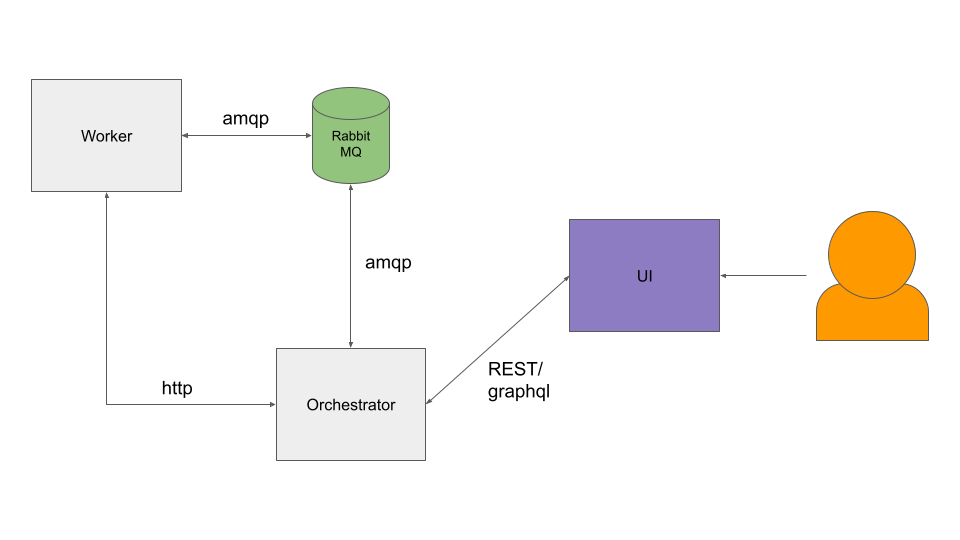
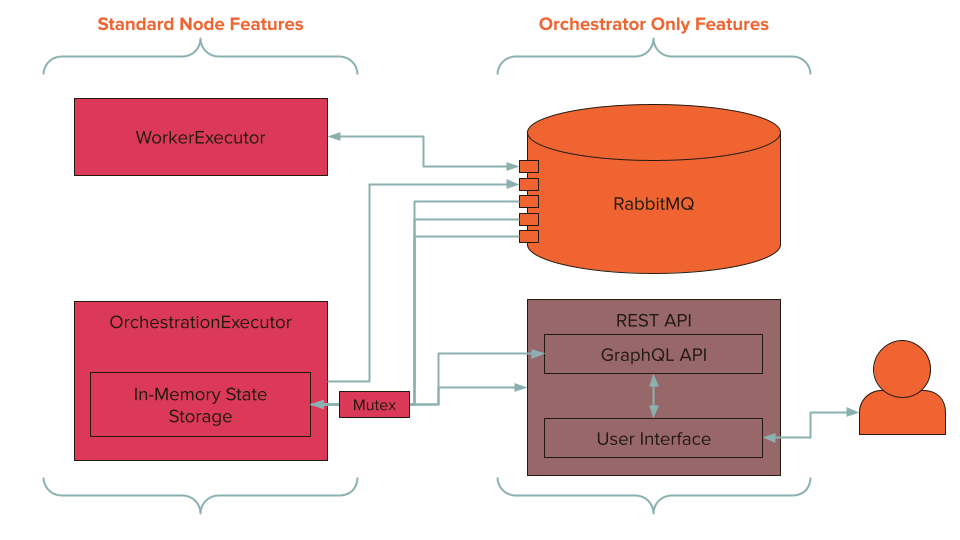
Report rev 3

diff --git a/src/platform_executor/orchestration_executor/db.rs b/src/platform_executor/orchestration_executor/db.rs
@@ -86,22 +86,28 @@ impl Database {
     pub fn get_orchestrator_rank(&mut self, node_id: &str) -> u8 {
         if let Some(n) = self.nodes.get(node_id) {
             let mut n = n.clone();
-            if let Some(p) = n.orchestration_priority {
-                return p;
-            }
             // node does not have an assigned priority, so figure one out
             let nodes: Vec<_> = self.nodes.iter().collect();
-            let mut max_priority = 0;
+            let mut priorities: [bool; 255] = [false; 255];
             for (_, n) in nodes {
                 if let Some(p) = n.orchestration_priority {
-                    if p != 255 && p > max_priority {
-                        max_priority = p;
-                    }
+                    priorities[p as usize] = true;
                 }
             }
-            n.orchestration_priority = Some(max_priority + 1);
-            self.nodes.insert(node_id.to_string(), n);
-            return max_priority + 1;
+            for (i, v) in priorities.iter().enumerate() {
+                if *v == false {
+                    if let Some(p) = n.orchestration_priority {
+                        if p < (i as u8) {
+                            return p;
+                        }
+                    }
+                    n.orchestration_priority = Some(i as u8);
+                    self.nodes.insert(node_id.to_string(), n);
+                    return i as u8;
+                }
+            }
+            // No priority is available
+            return 255;
         } else {
             // node is not in DB, so give no priority
             return 255;

diff --git a/documentation/Report.md b/documentation/Report.md
@@ -115,15 +115,15 @@ Running an installer performs the following sequence of tasks:
 - setup of kraken directory, and either compilation of the platform or downloading a compiled executable
 - establishment of the kraken.service, which will run a script to auto-update and auto-run the platform on boot
 
-There are two different installation options (the `installer-compile` and `installer-pi`) since compiling a rust project (or this project in particular) requires significant computing resources, as well as openssl, which does not come built in with Raspbian. As a result, prior to distributing a pre-compiled binary with openssl built in, compiling on a Raspberry Pi 3 B+ took upwards of an hour with active cooling, as well as additional configuration to get openssl installed. Now, Raspberry Pis simply need to download a ~20MB binary (this is unoptimized for size, Rust is notorious for having large binary sizes prior to optimization). See [Compilation](###Compilation) for more information about how Kraken achieves low-effort cross compilation.
+There are two different installation options (the `installer-compile` and `installer-pi`) since compiling a rust project (or this project in particular) requires significant computing resources, as well as openssl, which does not come built in with Raspbian. As a result, prior to distributing a pre-compiled binary with openssl built in, compiling on a Raspberry Pi 3 B+ took upwards of an hour with active cooling, as well as additional configuration to get openssl installed. Now, Raspberry Pis simply need to download a ~20MB binary (this has not been optimized for size, Rust is notorious for having large binary sizes prior to optimization due to static linking of all dependencies and static dispatch for generics). See [Compilation](###Compilation) for more information about how Kraken achieves low-effort cross compilation.
 
 The most detailed and up to date information about installation is available [here](./Installation.md).
 
-### Compilation
+### Binary Compilation
 
-Due to the low resources of a raspberry pi, compiling this project natively can take hours. For this reason, I have configured this project to support cross-compilation for Raspberry Pi. By making use of Rust's tooling, this process is actually fairly straightforward.
+Due to the low resources of a Raspberry Pi, compiling this project natively can take hours. For this reason, the project is configured to support cross-compilation for Raspberry Pi. By making use of Rust's tooling, this process is actually fairly straightforward.
 
-First, you must define the relevant target in your `.cargo/config.toml` file:
+First, you must define the target in your rust build tools (cargo) configuration file:
 
 ```toml
 [build]
@@ -139,34 +139,78 @@ Then you install the relevant linker to your system you are compiling from:
 sudo apt install arm-linux-gnueabihf-gcc
 ```
 
-To compile for RPi, we must also bundle in openssl. Luckily with Cargo's `features` feature, this becomes trivial. We first add `openssl` as an optional dependency to our `Config.toml`:
+To compile for RPi, you must also bundle in openssl. Luckily with Cargo's `features` feature, this becomes trivial. We first add `openssl` as an optional dependency to our `Config.toml` (which is the Rust `package.json` or `requirements.txt` equivalent):
 
 ```toml
 openssl = { version = '0.10', optional = true }
 ```
 
-and then we add the openssl feature to our `Config.toml`
+and then add the openssl feature to our `Config.toml`
 
 ```toml
 [features]
 vendored-openssl = ["openssl/vendored"]
 ```
 
-Then, we can simply compile our project as follows:
+Then simply compile the project as follows:
 
 ```bash
 cargo build --release --target armv7-unknown-linux-gnueabihf --features vendored-openssl
-# or for this project, just use the shortcut
+# or for this project, just use the shortcut defined in the Makefile
 make build-pi
 ```
 
-This will generate an executable, which can simply be uploaded to Github as a new release. The most recent release will be downloaded by `installer-pi.sh` as part of the installation process, or on each boot if a newer binary is available.
+This will generate an executable, which can be uploaded to Github as a new release. The most recent release will be downloaded by `installer-pi.sh` as part of the installation process, or on each boot if a newer binary is available.
 
 ### Application Onboarding
 
-Onboarding an application to the platform requires only a few simple steps. First, you must have a running version of the platform on your LAN. You can either follow the [installation steps above](###Installation), or simply clone the project and run the platform temporarily.
+The application onboarding process is as follows:
 
-Then you must configure your application to be run on the platform. To do this, you must create a `shipwreck.toml` file in the root directory of your repository, in the branch you want to be deployed to the platform. An example might look like the following:
+- Install/Run the platform
+- Create a `shipwreck.toml` file in your project's root specifying configuration information
+-
+
+Onboarding an application to the platform requires only a few simple steps. First, you must have a running version of the platform on your LAN. You can either follow the [installation steps above](###Installation) to install the platform as a service, or simply clone the project and run the dev installation script, and compile and build locally.
+
+Suppose we have a basic NodeJS express server, with a file structure and file contents:
+
+```bash
+# Directory Structure
+.
+├── package.json
+└── src
+    └── index.js
+```
+
+```js
+// index.js
+const express = require("express");
+let app = express();
+
+app.get("/", (req, res) => {
+  res.send("hello from nodeJS!");
+});
+
+app.listen(7211, () => {
+  console.log("listening on 7211");
+});
+```
+
+```json
+// package.json
+{
+  "name": "scapenode",
+  "main": "index.js",
+  "scripts": {
+    "start": "node ./src/index.js"
+  },
+  "dependencies": {
+    "express": "^4.17.1"
+  }
+}
+```
+
+To onboard this application to the platform, you must create a `shipwreck.toml` file in the root directory of your repository, in the branch you want to be deployed to the platform. An example might look like the following:
 
 ```toml
 [app]
@@ -176,14 +220,26 @@ author="Ethan Shry"
 endpoint="https://github.com/ethanshry/scapenode"
 
 [config]
-port=7211
-lang="node"
-run="npm start"
+port=7211 # the port specified in the express server
+lang="node" # node specified that this is a nodejs application
+run="npm start" # the command to be run - we could replace this with `node ./src/index.js`
+```
+
+Which will yield the following directory structure:
+
+```bash
+.
+├── package.json
+├── shipwreck.toml
+└── src
+    └── index.js
 ```
 
 Components of the `app` section describe metadata about the application, while fields of the `config` section describe important configuration aspects of your deployment. More details about these fields are available on the `info` screen in the platform interface, and the config field format is implemented in the `crate::deployment::shipwreck` module.
 
-From there, you simply need to access the `deployments` tab of the interface, and select the appropriate URL and branch for your deployment. This should enable the `Create Deployment` button, which will delegate the deployment to a worker on the platform.
+You will then need to access the platform interface to deploy the application, which means you need the IP address of the machine which is running the platform. If do not know the IP address, the [Kraken-Orchestrator-Discovery](https://github.com/ethanshry/Kraken-Orchestrator-Discovery) tool will scan your LAN for an IP address with an exposed port `8000`, which is the port that the platform API runs on. While a DNS server for the platform was something which was explored for ease-of-use, traditional DNS implementations require a consistent IP address and configuring either all devices on your LAN or your Router to point to that IP address, and mDNS libraries for Rust were incompatible, incomplete, or generally not sufficiently mature to be implemented in a reasonable amount of time. In any case, navigate to the platform interface at `PLATFORM_IP:8000`.
+
+From there, you simply need to access the `deployments` tab of the interface, and select the appropriate URL (NOT the git clone URL) and branch for your deployment. This should enable the `Create Deployment` button, which will delegate the deployment to a worker on the platform.
 
 ![Deployment UI Example](./images/deployment_url_and_branch_ok.png)
 
@@ -193,7 +249,7 @@ This section will cover the main systems involved in the platform. The figure be
 
 ![Node Components](./images/node_components_diagram.png)
 
-As you can see, each node has two different `Executors` running at any given time. These are outlined more in the [Executors](###Executors) section, however an executor is a way to differentiate groups of functionality. There are effectively two types of nodes on the platform- a single orchestrator, and many workers. Their responsibilities are covered in the [Workers](###Workers), [Orchestrators](###Orchestrators), and [Orchestration Rollover Candidates](###Orchestration-Rollover-Candidates) sections below.
+As you can see, each node has two different `Executors` running at any given time- a `WorkerExecutor` and an `OrchestrationExecutor`. These are outlined more in the [Executors](###Executors) section, however an executor is a way to differentiate groups of functionality. There are effectively two types of nodes on the platform- orchestrators and workers. Orchestrators are either active (the primary orchestrator) or inactive (rollover candidates). Their responsibilities are covered in the [Workers](###Workers), [Orchestrators](###Orchestrators), and [Orchestration Rollover Candidates](###Orchestration-Rollover-Candidates) sections below.
 
 The way the various pieces of the platform communicate with each other is outlined in [Communication](###Communication).
 
@@ -444,7 +500,7 @@ impl Executor for OrchestrationExecutor {
 
 ### Orchestration Rollover Candidates
 
-Though technically this role falls under the `OrchestrationExecutor` umbrella, an Orchestration Rollover Candidate is worth talking about separately. These are `OrchestrationExecutors` which have a `rollover_priority != Some(0)`. In these cases, the `setup` for the executor will do nothing. In `execute`, the orchestrator is only responsible for checking to see that it can communicate with the primary orchestrator. If the candidate is the primary candidate (i.e. the first rollover node), then it will also backup the database and log data from the primary orchestrator.
+Though technically this role falls under the `OrchestrationExecutor` umbrella, an Orchestration Rollover Candidate is worth talking about separately. These are `OrchestrationExecutors` which have a `rollover_priority != Some(0)`. In these cases, the `setup` for the executor will do nothing. In `execute`, the orchestrator is only responsible for checking to see that it can communicate with the primary orchestrator. If the candidate is the primary candidate (i.e. the first rollover node), then it will also backup the database and log data from the primary orchestrator. For more information on the rollover process itself, see [Rollover](##Rollover)
 
 ```rust
 
@@ -484,11 +540,11 @@ impl Executor for OrchestrationExecutor {
 
 ### Communication
 
-The most complicated portion of this project is figuring out how all the different pieces of the platform communicate with each other. The below diagram covers the different pieces of the platform, and where they are communicating.
+The communication between different platform systems is designed to maximize simplicity within each system. The below diagram covers the different pieces of the platform, and how they are communicating.
 
 ![Platform Communication](./images/platform_communication_diagram.png)
 
-The first thing to note is the way external users interface with the platform. The User Interface only communicates with the platform via the GraphQL API. This communication method was chosen so as to maximize flexibility in development- by using GraphQL, it is very easy to modify the schema of the requests on-the-fly, which sped up development significantly, and allows for future expansibility. The GraphQL API (which really rests on top of a standard REST API) has a thread-safe reference to the In-Memory State Storage (or the `Database`) that is owned by the `OrchestrationExecutor`. All the data to power the API comes from this database, and any user requests which are made to the platform will be created in this database. The only exception to this is the delivery of UI files (and application log files), which come from the REST API.
+The first thing to note is the way external users interface with the platform. The User Interface only communicates with the platform via the GraphQL API. This communication method was chosen so as to maximize flexibility in development- by using GraphQL, it is very easy to modify the schema of the requests on-the-fly, which sped up development significantly, and allows for future expansibility. The GraphQL API (which actually rests on top of a standard REST API) has a thread-safe reference to the In-Memory State Storage (or the `Database`) that is owned by the `OrchestrationExecutor`. All the data to power the API comes from this database, and any user requests which are made to the platform will be created in this database. The only exception to this is the delivery of UI files (and application log files), which come from the REST API.
 
 This theme- the ownership of a thread-safe reference to the `OrchestrationExecutor`'s database, is common across all other parts of the platform as well. The `OrchestrationExecutor` only monitors the database to determine which tasks to perform. The different RabbitMQ queue consumers the database own all have a reference to this database as well, so any inbound to the `OrchestrationExecutor` comes through the database. The only exception to this is in Orchestration Rollover Candidates, which monitor a route on the REST API to ensure the primary orchestrator is still active, and to receive their backup data.
 
@@ -516,11 +572,59 @@ pub struct Database {
 }
 ```
 
-Anything which wants to communicate inbound to the `OrchestrationExecutor` (i.e. RabbitMQ Consumers and the REST/GraphQL APIs) has a thread-safe reference to this database. This model is actually very similar to the implementation of the [mini-redis](https://github.com/tokio-rs/mini-redis) crate. This design allows the `OrchestrationExecutor::execute` method to simply iterate over information in the database, instead of looking for messages in many different RabbitMQ queues, or performing many operations out-of-band as the different messages come in from different sources. While this does potentially reduce performance, the simplicity and ease of debugging gained by having a single execution loop is worth the minor sacrifice.
+Anything which wants to communicate inbound to the `OrchestrationExecutor` (i.e. RabbitMQ Consumers and the REST/GraphQL APIs) has an `Arc<Mutex<Database>>` to this database. This model is actually very similar to the implementation of the [mini-redis](https://github.com/tokio-rs/mini-redis)[6] crate, which is both simple and designed by the creators of `tokio`, one of the most popular async runtimes for Rust. This design allows the `OrchestrationExecutor::execute` method to iterate over information in the database, instead of looking for messages across many different RabbitMQ queues, or performing many operations out-of-band as the different messages come in from different sources. While this does potentially reduce performance, since we look at each deployment through each iteration, this reduces the potential for the Orchestrator to act on out-of-date information, and the simplicity and ease of debugging gained by having a single straightforward execution loop is very convenient.
 
 ### Rollover
 
-The rollover process for the platform is actually relatively straightforward. All rollover activities are handled by the `OrchestrationExecutor` and the `rollover_priority`. In the case that a node which is not the Orchestrator (that is to say, with a `rollover_priority != Some(0)`) is unable to access the `/health/<requester_node_id>` REST API endpoint, that executor will go into an exponential backoff period attempting to access that route. That is to give the primary orchestrator time to recover from whatever service interruption it is experiencing. If after that period of backoff (~10s) the secondary orchestrator is unable to establish a connection, it will return an `ExecutionFailure::NoOrchestrator` from it's `execute` method call. When this response is received by the main application loop, the orchestrator will then do one of two things. If we are the primary rollover candidate (i.e. `rollover_priority != Some(1)`) then we will alter our rollover priority to be `Some(0)` and establish ourselves as the primary orchestrator of a new platform. All other nodes will instead enter another period of exponential backoff (~2m) waiting to connect to the new platform.
+The rollover process for the platform is actually relatively straightforward. All rollover activities are handled by the `OrchestrationExecutor` and dictated by the `rollover_priority`. Orchestrators have four states:
+
+| `rollover_priority` | Meaning                                                                                                                                                   |
+| ------------------- | --------------------------------------------------------------------------------------------------------------------------------------------------------- |
+| `Some(0)`           | The node is the primary orchestrator                                                                                                                      |
+| `Some(1)`           | The node is the primary rollover candidate, and is backing up the database and log files of the primary orchestrator                                      |
+| `Some(255)`         | The node is not yet in the database, so it cannot be assigned a priority, or all priorities are assigned                                                  |
+| `Some(n)`           | The node is not a rollover candidate, and just monitors the health endpoint. It could become the primary candidate as a result of a healthcheck api call. |
+
+Priorities are assigned by calls to the `/health/<requester_node_id>` API endpoint, which is the endpoint used by secondary orchestrators to ensure the primary orchestrator is running, through the following method:
+
+```rust
+pub fn get_orchestrator_rank(&mut self, node_id: &str) -> u8 {
+    if let Some(n) = self.nodes.get(node_id) {
+        let mut n = n.clone();
+        // node does not have an assigned priority, so figure one out
+        let nodes: Vec<_> = self.nodes.iter().collect();
+        let mut priorities: [bool; 255] = [false; 255];
+        for (_, n) in nodes {
+            if let Some(p) = n.orchestration_priority {
+                priorities[p as usize] = true;
+            }
+        }
+        for (i, v) in priorities.iter().enumerate() {
+            if *v == false {
+                if let Some(p) = n.orchestration_priority {
+                    if p < (i as u8) {
+                        return p;
+                    }
+                }
+                n.orchestration_priority = Some(i as u8);
+                self.nodes.insert(node_id.to_string(), n);
+                return i as u8;
+            }
+        }
+        // No priority is available
+        return 255;
+    } else {
+        // node is not in DB, so give no priority
+        return 255;
+    }
+}
+```
+
+In the case that a node which is not the Orchestrator (that is to say, with a `rollover_priority != Some(0)`) is unable to access the `/health/<requester_node_id>` REST API endpoint, that executor will go into an exponential backoff period attempting to regain access to that route. That is to give the primary orchestrator time to recover from whatever service interruption it is experiencing. If after that period of backoff (~10s) the secondary orchestrator is unable to establish a connection, it will return an `ExecutionFailure::NoOrchestrator` from it's `execute` method call. When this response is received by the main application loop, the orchestrator will then do one of two things. If it is the primary rollover candidate (i.e. `rollover_priority == Some(1)`) then we will alter our rollover priority to be `Some(0)` and establish itself as the primary orchestrator of a new platform. All other nodes will instead enter another period of exponential backoff (~3m) waiting to connect to the new platform, at the end of which they will terminate.
+
+In the case of the faliure of a node to report its status to the Orchestrator for a period of 1 minute, the Orchestrator will remove it from the database, and redeploy its deployments to other nodes. Additionally, that node's orchestrator's `rollover_priority` will be freed up to be assigned to another node.
+
+This rollover scheme is sufficient to handle the loss of any number of worker nodes, since whenever a worker node is lost, the remaining node's `rollover_priorities` will be reassigned. In the case that a worker node with `rollover_priority == Some(1)` is lost and within the minute of no connection, the Orchestrator goes down, the platform will have cascading node faliure. In the case that the Orchestrator goes down, and the primary rollover candidate also goes down before it has a chance to assign a new primary rollover candidate, the platform will also have cascading node faliure. While this would be a terrible design for a production system, the primary focus of the platform is its ease-of-use, not its rollover strategy, and it is relatively easy to just reboot the platform and re-establish the deployments. Additionally the case in which multiple specific devices would fail within minutes of each other, due to non-platform induced problems (since they would need to fail almost immidiately after setup to not have assigned backup nodes) is relatively low.
 
 In the case of rollover, the new orchestrator will be operating on the most recently saved `Database` backup. Since the platform was designed as a development environment, we do not make any effort to re-attach to existing deployments. Instead, we send a signal to all nodes to spin down their deployments, and the primary orchestrator will treat all deployments as though they were newly requested.
 
@@ -528,9 +632,11 @@ In the case of rollover, the new orchestrator will be operating on the most rece
 
 The platform UI is relatively simple. It provides basic information about the platform, including a brief tutorial for onboarding. It has a page to monitor the various nodes attached to the platform, and a place to request and monitor the various deployments on the platform.
 
-The User Interface is a React-Typescript app. It used Urql as the GraphQL API interface, and Ant-Design as the UI library. It is not based on Create-React-App, instead using Parcel as the bundler.
+The User Interface is a React-Typescript app. It used Urql as the GraphQL API interface, and Ant-Design as the UI library.
 
-While it is nice to not have the overhead of Create-React-App, or the complexity of Webpack, Parcel is currently transitioning from v1 to v2, and Ant-Design and Parcel do not play well together. If I were to do this project over, I would not use both (probably transitioning to a different UI library).
+It is not based on Create-React-App, which is probably the standard way to setup a new React project, and handles building and minimizing a react project, as the default set of dependencies from Create-React-App as of March 2021 is over 50 items, which felt egregious for a project boilerplate. Instead, Kraken-UI uses [Parcel](https://parceljs.org/getting_started.html)[7] as a bundler, which is a low-configuration bundler.
+
+While it is nice to not have the overhead of Create-React-App, or the complexity of Webpack, Parcel is currently transitioning from v1 to v2, and Ant-Design and Parcel do not play well together. If I were to do this project over, I would not use both together (probably transitioning to a different UI library, and back to Webpack as a bundler unless Parcel has had sufficient time to mature).
 
 ## Future Work
 
@@ -555,18 +661,23 @@ DNS resolution was something which should have been part of this project, howeve
 
 I want to personally thank a few different sources for making this project possible:
 
-First, I want to thank the creators of [The Rust Book](https://doc.rust-lang.org/book/). This is truly worth reading for every new rust developer, and was immensely helpful in understanding the basics.
+First, I want to thank the creators of [The Rust Book](https://doc.rust-lang.org/book/)[8]. This is truly worth reading for every new rust developer, and was immensely helpful in understanding the basics.
 
 The r/rust reddit community was also helpful, and significantly better than StackOverflow to provide understaning of both language features and the history behind how those features came to be.
 
-Jon Gjenset and Ryan Levick are both Rust developers who pulish long-form YouTube content about Rust, which was useful and interesting to better understand some of the inner workings of the language.
+Jon Gjenset[9] and Ryan Levick[10] are both Rust developers who pulish long-form YouTube content about Rust, which was useful and interesting to better understand some of the inner workings of the language.
 
 Finally, I want to thank Bill Siever for allowing me to run with a random project idea and for being flexible enough to let me shape it as I go, I've had a great time being able to explore the areas I found interesting and appreciate the opportunity to make something I actually want to build the way I want to build it.
 
 ## Citations
 
-- \[1\] - https://resources.idg.com/download/2020-cloud-computing-executive-summary-rl
-- \[2\] - https://aws.amazon.com/ec2/pricing/
-- \[3\] - https://azure.microsoft.com/en-us/pricing/details/virtual-machines/linux/
-- \[4\] - https://cloud.google.com/compute/vm-instance-pricing
-- \[5\] - https://kublr.com/industry-info/docker-and-kubernetes-survey/
+- \[1\] - Cloud Adoption Survey https://resources.idg.com/download/2020-cloud-computing-executive-summary-rl
+- \[2\] - AWS Pricing https://aws.amazon.com/ec2/pricing/
+- \[3\] - Azure Pricing https://azure.microsoft.com/en-us/pricing/details/virtual-machines/linux/
+- \[4\] - GCP PRicing https://cloud.google.com/compute/vm-instance-pricing
+- \[5\] - Kubernetes Challenges in Industry https://kublr.com/industry-info/docker-and-kubernetes-survey/
+- \[6\] - Mini-Redis https://github.com/tokio-rs/mini-redis
+- \[7\] - Parcel JS https://parceljs.org/getting_started.html
+- \[8\] - The Rust Book https://doc.rust-lang.org/book/
+- \[9\] - Jon Gjenset's Youtube Channel https://www.youtube.com/channel/UC_iD0xppBwwsrM9DegC5cQQ
+- \[10\] - Ryan Levick's Youtube Channel https://www.youtube.com/channel/UCpeX4D-ArTrsqvhLapAHprQ
